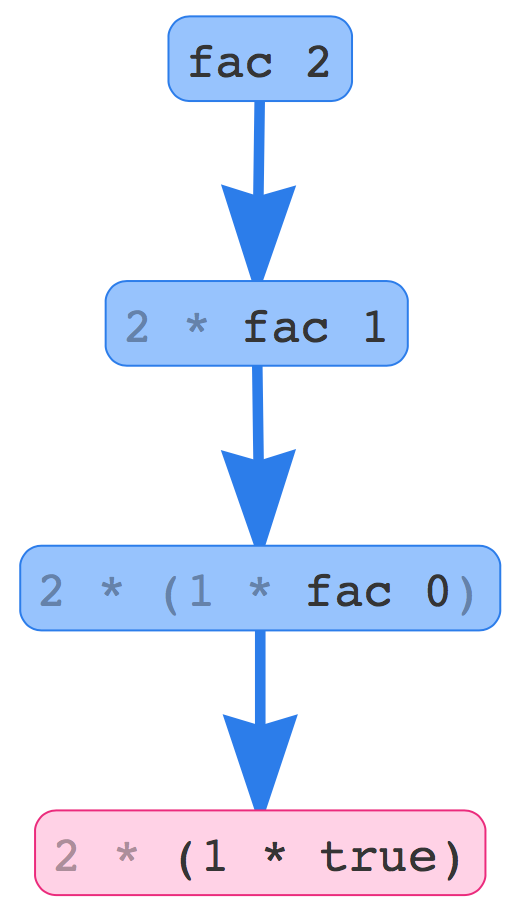
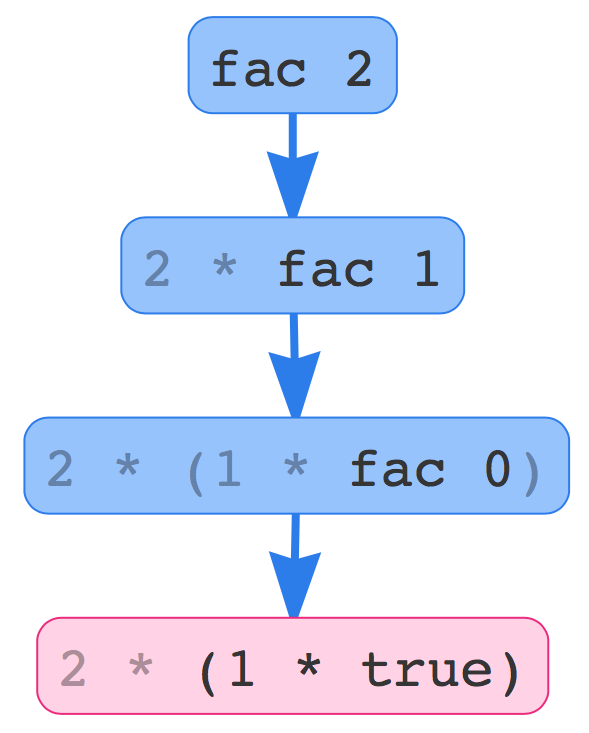
tweak fac-overview

Changed region(s): [[0.0308, 0.0, 0.9846, 0.9905]]

diff --git a/paper/pldi16-submission/introduction.tex b/paper/pldi16-submission/introduction.tex
@@ -52,7 +52,7 @@ program is wrong.
 % \hspace{0.3in}
 \begin{minipage}{.49\linewidth}
 \centering
-  \includegraphics[height=2in]{fac-overview.png}
+  \includegraphics[height=1.5in]{fac-overview.png}
 \end{minipage}
 \caption{(L) An ill-typed \texttt{fac} function; (R) Dynamically witnessing the type error in \texttt{fac}}
 \label{fig:factorial}
